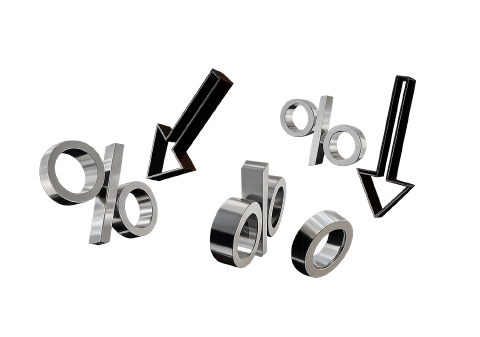
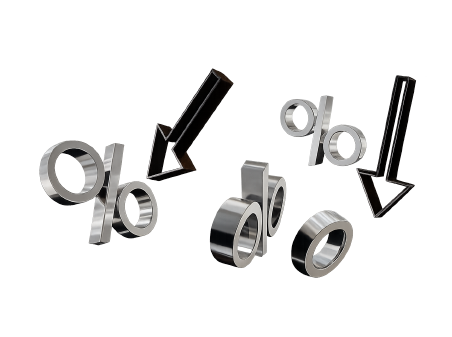
색상 변경

Changed region(s): [[0.4336, 0.2077, 0.9292, 0.8309], [0.0619, 0.2077, 0.5265, 0.7418]]

diff --git a/css/main.css b/css/main.css
@@ -356,21 +356,17 @@ body {
 }
 
 .ms-card-dark::before {
-    background: linear-gradient(180deg, rgba(209, 221, 255, 0.1) 0%, rgba(0, 0, 0, 0.35) 55%, rgba(81, 107, 145, 0.2) 100%);
+    background: linear-gradient(180deg, rgba(209, 221, 255, 0.1) 0%, rgba(0, 0, 0, 0.35) 55%, rgba(81, 107, 145, 0.3) 100%);
 }
 
 .ms-card-light {
     margin-top: -70px;
-    background:radial-gradient(circle at 65% 35%, rgb(107 255 80 / 8%), transparent 36%), linear-gradient(145deg, #2a350f, #0d1104);
+    background: radial-gradient(circle at 65% 35%, rgba(107, 255, 80, 0.08), transparent 36%), linear-gradient(145deg, rgb(105 117 78), rgb(13, 17, 4));
     color: #fff;
 }
 
 .ms-card-light::before {
-    background: linear-gradient(
-        180deg,
-        rgba(255, 255, 255, 0.08),
-        rgba(48, 255, 134, 0.12)
-    );
+    background: linear-gradient(180deg, rgba(255, 255, 255, 0.08), rgb(12 22 17 / 12%));
 }
 
 .ms-card {
@@ -380,13 +376,13 @@ body {
 .ms-card:hover {
     transform: translateY(-18px);
     box-shadow: 0 55px 110px rgba(0, 0, 0, 0.45);
-    background:radial-gradient(circle at 70% 30%,rgba(176, 255, 140, 0.18),transparent 42%),linear-gradient(145deg,#456323,    #1c4a16);}
+    background:radial-gradient(circle at 70% 30%,rgba(255, 255, 255, 0.18),transparent 42%),linear-gradient(145deg,#cad4be,    #1c4a16);}
 
 .ms-card:hover::before {
     background: linear-gradient(
         180deg,
         rgba(255, 255, 255, 0.08),
-        rgba(48, 255, 110, 0.12)
+        rgba(14, 59, 28, 0.12)
     );
 }
 

diff --git a/eng.html b/eng.html
@@ -57,9 +57,9 @@
                         <li class="gnb-item">
                             <a href="#" class="gnb-link">support</a>
                             <ul class="depth2">
-                            <li><a href="./support/as.html">A/S Service Request</a></li>
-                            <li><a href="./support/contact.html">Contact Us</a></li>
-                            <li><a href="./support/blog.html">Blog</a></li>
+                            <li><a href="./support/as-eng.html">A/S Service Request</a></li>
+                            <li><a href="./support/contact-eng.html">Contact Us</a></li>
+                            <li><a href="./support/blog-eng.html">Blog</a></li>
                             </ul>
                         </li>
                         <li class="gnb-item">
@@ -67,7 +67,7 @@
                             <ul class="depth2">
                                 <li><a href="./company/greeting-eng.html">CEO Message</a></li>
                                 <li><a href="./company/mission-eng.html">Mission & Vision</a></li>
-                                <li><a href="./company/organization-chart.html">Organization Chart</a></li>
+                                <li><a href="./company/organization-chart-eng.html">Organization Chart</a></li>
                                 <li><a href="./company/map-eng.html">Directions</a></li>
                             </ul>
                         </li>